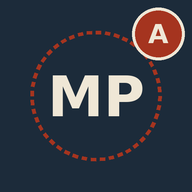
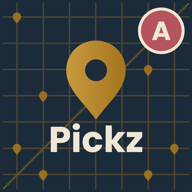
Add files via upload

diff --git a/index.html b/index.html
@@ -2445,6 +2445,23 @@ function closeQR(){ document.getElementById('qrBackdrop').classList.remove('show
 /* =========================================================
    7) بدء التشغيل
    ========================================================= */
+// كل النوافذ (modal-backdrop) كانت بنفس أولوية العرض (z-index) الثابتة، فكانت النافذة الأحدث فتحًا
+// ممكن تظهر تحت نافذة قديمة لسه مفتوحة بمجرد إنها مكتوبة قبلها في الكود. الحل: أي نافذة تتفتح،
+// ترفع أولويتها البصرية تلقائيًا فوق كل حاجة تانية، بغض النظر عن ترتيبها في الكود.
+(function(){
+  let topZ = 100;
+  document.querySelectorAll('.modal-backdrop').forEach(el => {
+    new MutationObserver(muts => {
+      muts.forEach(m => {
+        if (m.attributeName === 'class' && el.classList.contains('show')){
+          topZ += 1;
+          el.style.zIndex = topZ;
+        }
+      });
+    }).observe(el, { attributes: true });
+  });
+})();
+
 (async function init(){
   await initFirebase();
   // الطلبات دي مستقلة عن بعض — نشغلها بالتوازي بدل التتابع، يقلل وقت التحميل بشكل ملموس